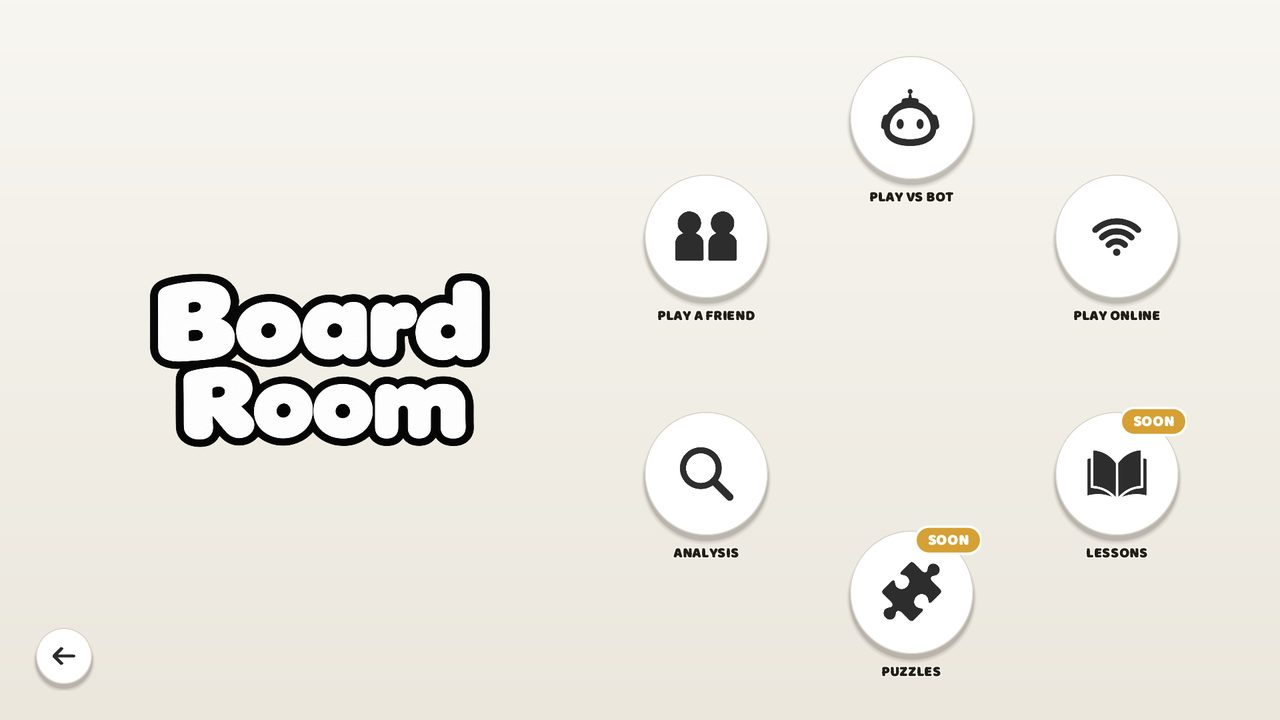
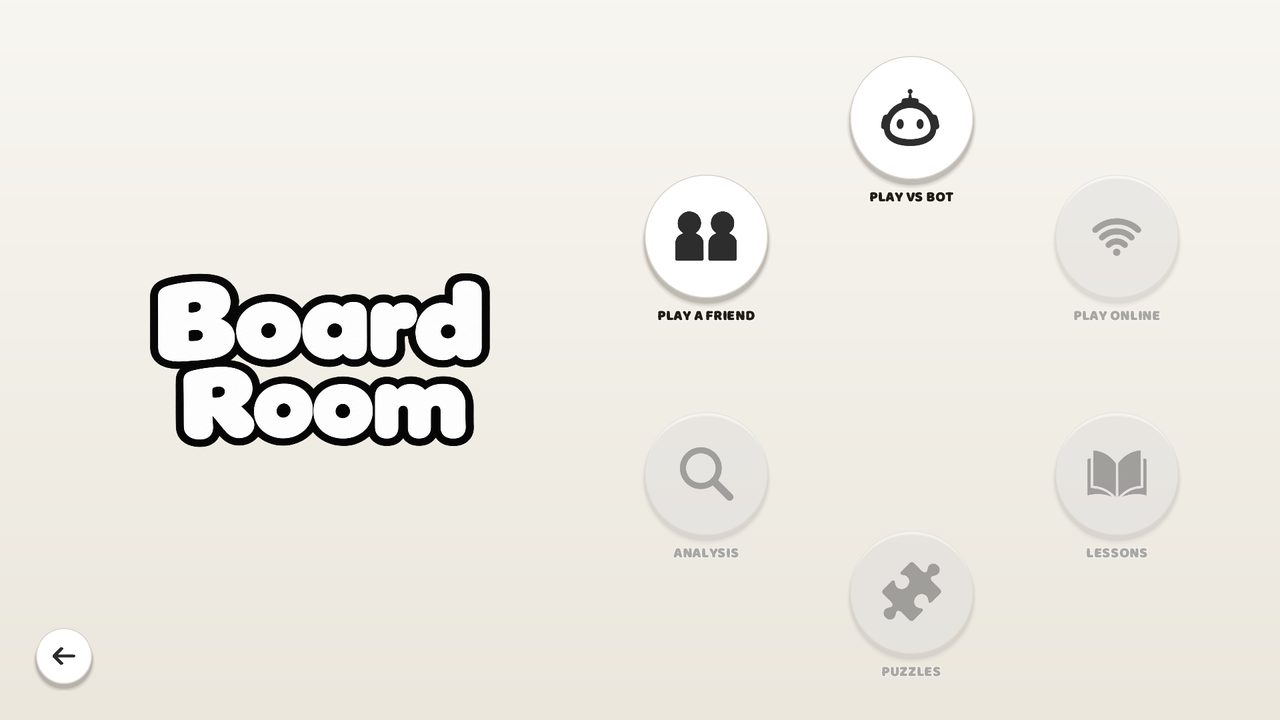
Offer the free version

diff --git a/index.html b/index.html
@@ -3,8 +3,8 @@
 <head>
 <meta charset="utf-8">
 <meta name="viewport" content="width=device-width, initial-scale=1">
-<title>Scaccomatto</title>
-<meta name="description" content="Scaccomatto is a free chess game for Windows and Linux: eight variants, bots with personality, analysis and game review.">
+<title>Scaccomatto Free</title>
+<meta name="description" content="Scaccomatto Free is a free chess game for Windows and Linux: seven variants and bots with personality.">
 <link rel="icon" href="img/icon.png">
 <link rel="preconnect" href="https://fonts.googleapis.com">
 <link rel="preconnect" href="https://fonts.gstatic.com" crossorigin>
@@ -15,8 +15,8 @@
 
 <header class="hero">
   <img class="wordmark" src="img/wordmark.png" alt="Scaccomatto" width="1100" height="300">
-  <p class="tagline">Chess, with personality.</p>
-  <p class="lead">Eight ways to play, bots with stories of their own, and a game review that shows you where it slipped. Free, and no account needed.</p>
+  <p class="tagline">Chess, with personality. Free.</p>
+  <p class="lead">Seven ways to play against a friend, and bots with stories of their own. No account, no ads, nothing to buy.</p>
 
   <div class="downloads">
     <a class="btn btn-primary" id="dl-windows" href="#" data-fallback>
@@ -28,7 +28,7 @@
       <span><strong>Download for Linux</strong><small id="dl-linux-note">.deb for Ubuntu, Mint, Debian</small></span>
     </a>
   </div>
-  <p class="fineprint"><span id="version">Version 1.0.0</span> · Java is built in, so there's nothing else to install. · <a href="#install">Install help</a></p>
+  <p class="fineprint"><span id="version">Scaccomatto Free 1.0.0</span> · Java is built in, so there's nothing else to install. · <a href="#install">Install help</a></p>
 </header>
 
 <main>
@@ -39,31 +39,31 @@
   <section class="features">
     <article>
       <img src="img/variants.jpg" alt="The Chess Variants screen" width="1280" height="720" loading="lazy">
-      <h2>Eight ways to play</h2>
-      <p>Classic, Chess960, King of the Hill, Three-check, Atomic, Fog of War and Duck Chess, with Spell Chess on the way. Play them with a friend on the same computer, or against each other on the same Wi-Fi.</p>
+      <h2>Seven ways to play</h2>
+      <p>Classic, Chess960, King of the Hill, Three-check, Atomic, Fog of War and Duck Chess. Sit a friend down at your computer and pick one.</p>
     </article>
     <article>
       <img src="img/bots.jpg" alt="Choosing a bot to play against" width="1280" height="720" loading="lazy">
       <h2>Bots with a backstory</h2>
-      <p>Every bot has a name, a story and a way of playing. Gary will grab anything you leave lying around; the others are harder to fool. Each one has its own strengths and blind spots, so beating one feels different from beating the next.</p>
+      <p>Every bot has a name, a story and a way of playing. Gary will grab anything you leave lying around; Margot, at 2200, is a different story. Each one has its own strengths and blind spots.</p>
     </article>
     <article>
-      <img src="img/analysis.jpg" alt="The analysis board with engine lines" width="1280" height="720" loading="lazy">
-      <h2>See where it went wrong</h2>
-      <p>Game Review walks back through your game and marks the good moves and the blunders. The engine behind it, Argus, was written from scratch for Scaccomatto.</p>
+      <img src="img/spectate.jpg" alt="Choosing two bots to watch in Spectate" width="1280" height="720" loading="lazy">
+      <h2>Watch the bots fight it out</h2>
+      <p>Pick any two bots, sit back, and watch them play each other. Good for learning, or just for watching Gary suffer.</p>
     </article>
-    <article>
-      <img src="img/multiplayer.jpg" alt="The Multiplayer screen" width="1280" height="720" loading="lazy">
-      <h2>Play a friend with a code</h2>
-      <p>Host a game, read out the six-letter code, and your friend is in. Works between computers on the same network for now; internet play is coming in an update.</p>
+    <article class="full">
+      <img src="img/spectategame.jpg" alt="A game in progress" width="1280" height="720" loading="lazy">
+      <h2>Want the whole thing?</h2>
+      <p>The full version of Scaccomatto adds online play, Analysis, Game Review, Puzzles, Lessons and Spell Chess. It's coming soon on Steam and itch.io.</p>
     </article>
   </section>
 
   <section class="gallery" aria-label="More screenshots">
-    <img src="img/game.jpg" alt="A game in dark mode" width="1280" height="720" loading="lazy">
-    <img src="img/duck.jpg" alt="Duck Chess, with the duck on the board" width="1280" height="720" loading="lazy">
-    <img src="img/fog.jpg" alt="The end of a Fog of War game" width="1280" height="720" loading="lazy">
-    <img src="img/achievements.jpg" alt="The Achievements screen" width="1280" height="720" loading="lazy">
+    <img src="img/botgame.jpg" alt="A game against Theo" width="1280" height="720" loading="lazy">
+    <img src="img/gamesettings.jpg" alt="Settings during a game" width="1280" height="720" loading="lazy">
+    <img src="img/spectategame.jpg" alt="Two bots playing each other" width="1280" height="720" loading="lazy">
+    <img src="img/settings.jpg" alt="The Settings screen" width="1280" height="720" loading="lazy">
   </section>
 
   <section class="install" id="install">
@@ -72,9 +72,9 @@
       <div class="card">
         <h3>Windows</h3>
         <ol>
-          <li>Run <code>Scaccomatto-Setup</code> and follow the steps.</li>
+          <li>Run <code>Scaccomatto-Free-Setup</code> and follow the steps.</li>
           <li>If Windows shows <em>"Windows protected your PC"</em>, click <strong>More info</strong>, then <strong>Run anyway</strong>. This appears because the installer is new and isn't signed with a paid certificate yet.</li>
-          <li>Open Scaccomatto from the Start menu or the desktop shortcut.</li>
+          <li>Open Scaccomatto Free from the Start menu or the desktop shortcut.</li>
         </ol>
         <p class="note">Updating? Remove the old version first if the installer asks you to <em>Change, Repair or Remove</em>.</p>
       </div>
@@ -82,10 +82,10 @@
         <h3>Linux</h3>
         <ol>
           <li>Download the <code>.deb</code> file.</li>
-          <li>In a terminal, in the folder you saved it to:<br><code class="block">sudo apt install ./scaccomatto_*_amd64.deb</code></li>
-          <li>Open Scaccomatto from your app menu.</li>
+          <li>In a terminal, in the folder you saved it to:<br><code class="block">sudo apt install ./scaccomatto-free_*_amd64.deb</code></li>
+          <li>Open Scaccomatto Free from your app menu.</li>
         </ol>
-        <p class="note">To remove it later: <code>sudo apt remove scaccomatto</code></p>
+        <p class="note">To remove it later: <code>sudo apt remove scaccomatto-free</code></p>
       </div>
     </div>
   </section>
@@ -94,7 +94,7 @@
     <h2>Questions</h2>
     <details>
       <summary>Is it really free?</summary>
-      <p>Yes. No ads, no account, nothing to buy.</p>
+      <p>Yes. Scaccomatto Free has no ads, no account and nothing to buy inside it. The full version, with online play, Analysis, Game Review, Puzzles, Lessons and Spell Chess, is coming soon on Steam and itch.io.</p>
     </details>
     <details>
       <summary>What about Mac?</summary>
@@ -102,7 +102,7 @@
     </details>
     <details>
       <summary>Can I play people over the internet?</summary>
-      <p>Not in this version. You can play anyone on the same Wi-Fi or network with a join code. Internet play is planned for a future update.</p>
+      <p>Not in the free version. Online play is part of the full version, coming soon on Steam and itch.io.</p>
     </details>
     <details>
       <summary>Does it send anything about me anywhere?</summary>
@@ -138,7 +138,7 @@ const REPO = "Curious3dofficial/scaccomatto-download";
       const deb = rel.assets.find(a => /\.deb$/i.test(a.name));
       if (exe) document.getElementById("dl-windows").href = exe.browser_download_url;
       if (deb) document.getElementById("dl-linux").href = deb.browser_download_url;
-      if (rel.tag_name) document.getElementById("version").textContent = "Version " + rel.tag_name.replace(/^v/, "");
+      if (rel.tag_name) document.getElementById("version").textContent = "Scaccomatto Free " + rel.tag_name.replace(/^v/, "");
       const mb = a => a ? " · " + Math.round(a.size / 1048576) + " MB" : "";
       document.getElementById("dl-windows-note").textContent = "Windows 10 and 11" + mb(exe);
       document.getElementById("dl-linux-note").textContent = ".deb for Ubuntu, Mint, Debian" + mb(deb);

diff --git a/privacy.html b/privacy.html
@@ -15,19 +15,16 @@
   <a class="back" href="index.html"><img src="img/icon.png" alt="" width="40" height="40">Scaccomatto</a>
 
   <h1>Privacy</h1>
-  <p class="updated">Last updated: November 2026. This covers Scaccomatto version 1.0.</p>
+  <p class="updated">Last updated: November 2026. This covers Scaccomatto Free version 1.0.</p>
 
-  <p>Short version: Scaccomatto doesn't have accounts yet, doesn't track you, and doesn't send anything about you to us or to anyone else. Everything it saves stays on your computer.</p>
+  <p>Short version: Scaccomatto Free doesn't connect to the internet, doesn't have accounts, doesn't track you, and doesn't send anything about you to us or to anyone else. Everything it saves stays on your computer.</p>
 
   <h2>What the app keeps on your computer</h2>
   <ul>
-    <li>Your settings, achievements and the guest name you play under (something like "Guest482913").</li>
-    <li>Your Game Library, your last analysis and any player pictures you add, in a folder called <code>.scaccomatto</code> in your home folder.</li>
+    <li>Your settings.</li>
+    <li>Any player names and pictures you add, in a folder called <code>.scaccomatto</code> in your home folder.</li>
     <li>Problem reports, if something goes wrong, in <code>.scaccomatto/logs</code>. These never leave your computer unless you choose to send one to us.</li>
   </ul>
-
-  <h2>Playing someone on your network</h2>
-  <p>When you host or join a game on the same Wi-Fi or network, the two computers talk to each other directly. What gets sent is only what the game needs: your guest name, your moves and any chat messages you type. None of it goes through us.</p>
 
   <h2>What we don't do</h2>
   <ul>
@@ -40,10 +37,7 @@
   <p>This page is hosted on GitHub Pages. When you open it, GitHub may log your IP address for security, as described in GitHub's own privacy statement. Its fonts load from Google Fonts, and the download buttons ask GitHub which installer is the newest; both see your IP address the way any website you visit does. The page itself stores nothing about you.</p>
 
   <h2>Removing everything</h2>
-  <p>Uninstall Scaccomatto, then delete the <code>.scaccomatto</code> folder in your home folder.</p>
-
-  <h2>If this changes</h2>
-  <p>Accounts and internet play are planned for a future update. Before any version starts storing anything off your computer, this page will be updated to say exactly what and why, and that version will ask before you sign in.</p>
+  <p>Uninstall Scaccomatto Free, then delete the <code>.scaccomatto</code> folder in your home folder.</p>
 
   <h2>Contact</h2>
   <p>Questions: <a href="mailto:alekhinestudios@gmail.com">alekhinestudios@gmail.com</a></p>

diff --git a/credits.html b/credits.html
@@ -3,7 +3,7 @@
 <head>
 <meta charset="utf-8">
 <meta name="viewport" content="width=device-width, initial-scale=1">
-<title>Scaccomatto Credits</title>
+<title>Scaccomatto Free Credits</title>
 <link rel="icon" href="img/icon.png">
 <link rel="preconnect" href="https://fonts.googleapis.com">
 <link rel="preconnect" href="https://fonts.gstatic.com" crossorigin>
@@ -15,7 +15,7 @@
   <a class="back" href="index.html"><img src="img/icon.png" alt="" width="40" height="40">Scaccomatto</a>
 
   <h1>Credits</h1>
-  <p>Scaccomatto is designed and built by Alekhine Studios Private Limited. The chess engine, Argus, was written from scratch for it: it plays every bot, runs the analysis and powers Game Review. The bots, their stories and artwork, and Spell Chess were made for Scaccomatto too.</p>
+  <p>Scaccomatto is designed and built by Alekhine Studios Private Limited. The chess engine, Argus, was written from scratch for it: it plays every bot, runs the analysis and powers Game Review. The bots, their stories and artwork were made for Scaccomatto too.</p>
   <p>Everything below is other people's work, used under the licence it was shared with. Thank you.</p>
 
   <h2>Music</h2>
@@ -27,14 +27,12 @@
   <h2>Sound effects</h2>
   <ul>
     <li>Fuse and glass break (Three-check) from <a href="https://pixabay.com/sound-effects/">Pixabay</a>, under the Pixabay Content License</li>
-    <li>Spell Chess teleport and shield sounds: made for Scaccomatto</li>
   </ul>
 
   <h2>Pieces and pictures</h2>
   <ul>
     <li>Neo pieces: "Celtic" by Maurizio Monge (MIT License)</li>
     <li>Minimal pieces: "Totoy" by Kosal Sen, via lichess.org (CC BY 4.0)</li>
-    <li>Chat emoji: Twemoji by Twitter, Inc and contributors (CC BY 4.0)</li>
   </ul>
 
   <h2>Fonts</h2>
@@ -42,8 +40,6 @@
 
   <h2>Code and data</h2>
   <ul>
-    <li>H2 Database Engine (MPL 2.0 / EPL 1.0)</li>
-    <li>Gson, Guava, and the Google API, HTTP and OAuth clients for Java (Apache License 2.0)</li>
     <li>TwelveMonkeys ImageIO (BSD 3-Clause) and Apache Batik (Apache License 2.0)</li>
     <li>Opening names: lichess-org/chess-openings (CC0)</li>
   </ul>

diff --git a/style.css b/style.css
@@ -124,3 +124,6 @@ footer p { margin: 4px 0; }
   .gallery { grid-template-columns: 1fr 1fr; }
   .btn { min-width: 0; width: 100%; }
 }
+
+/* the "full version" card stands out a little */
+.features article.full h2 { color: var(--gold-deep); }

diff --git a/README.md b/README.md
@@ -1,4 +1,4 @@
-# Scaccomatto
+# Scaccomatto Free
 
 Chess, with personality. A free chess game for Windows and Linux by Alekhine Studios Private Limited.
 
@@ -6,14 +6,15 @@ Chess, with personality. A free chess game for Windows and Linux by Alekhine Stu
 
 ![Scaccomatto](img/boardroom.jpg)
 
-- Eight variants: Classic, Chess960, King of the Hill, Three-check, Atomic, Fog of War and Duck Chess
-- Bots with their own stories and styles
-- Analysis and Game Review
-- Play a friend on the same Wi-Fi with a join code
+- Seven variants to play with a friend: Classic, Chess960, King of the Hill, Three-check, Atomic, Fog of War and Duck Chess
+- Bots with their own stories and styles, up to 2200
+- Spectate: watch two bots play each other
 
-**Windows:** run the `.exe`. If Windows says "Windows protected your PC", click *More info*, then *Run anyway*.
+Online play, Analysis, Game Review, Puzzles, Lessons and Spell Chess are in the full version of Scaccomatto, coming soon on Steam and itch.io.
 
-**Linux:** `sudo apt install ./scaccomatto_<version>_amd64.deb`
+**Windows:** run `Scaccomatto-Free-Setup-<version>.exe`. If Windows says "Windows protected your PC", click *More info*, then *Run anyway*.
+
+**Linux:** `sudo apt install ./scaccomatto-free_<version>_amd64.deb`
 
 Found a problem? Email alekhinestudios@gmail.com
 
